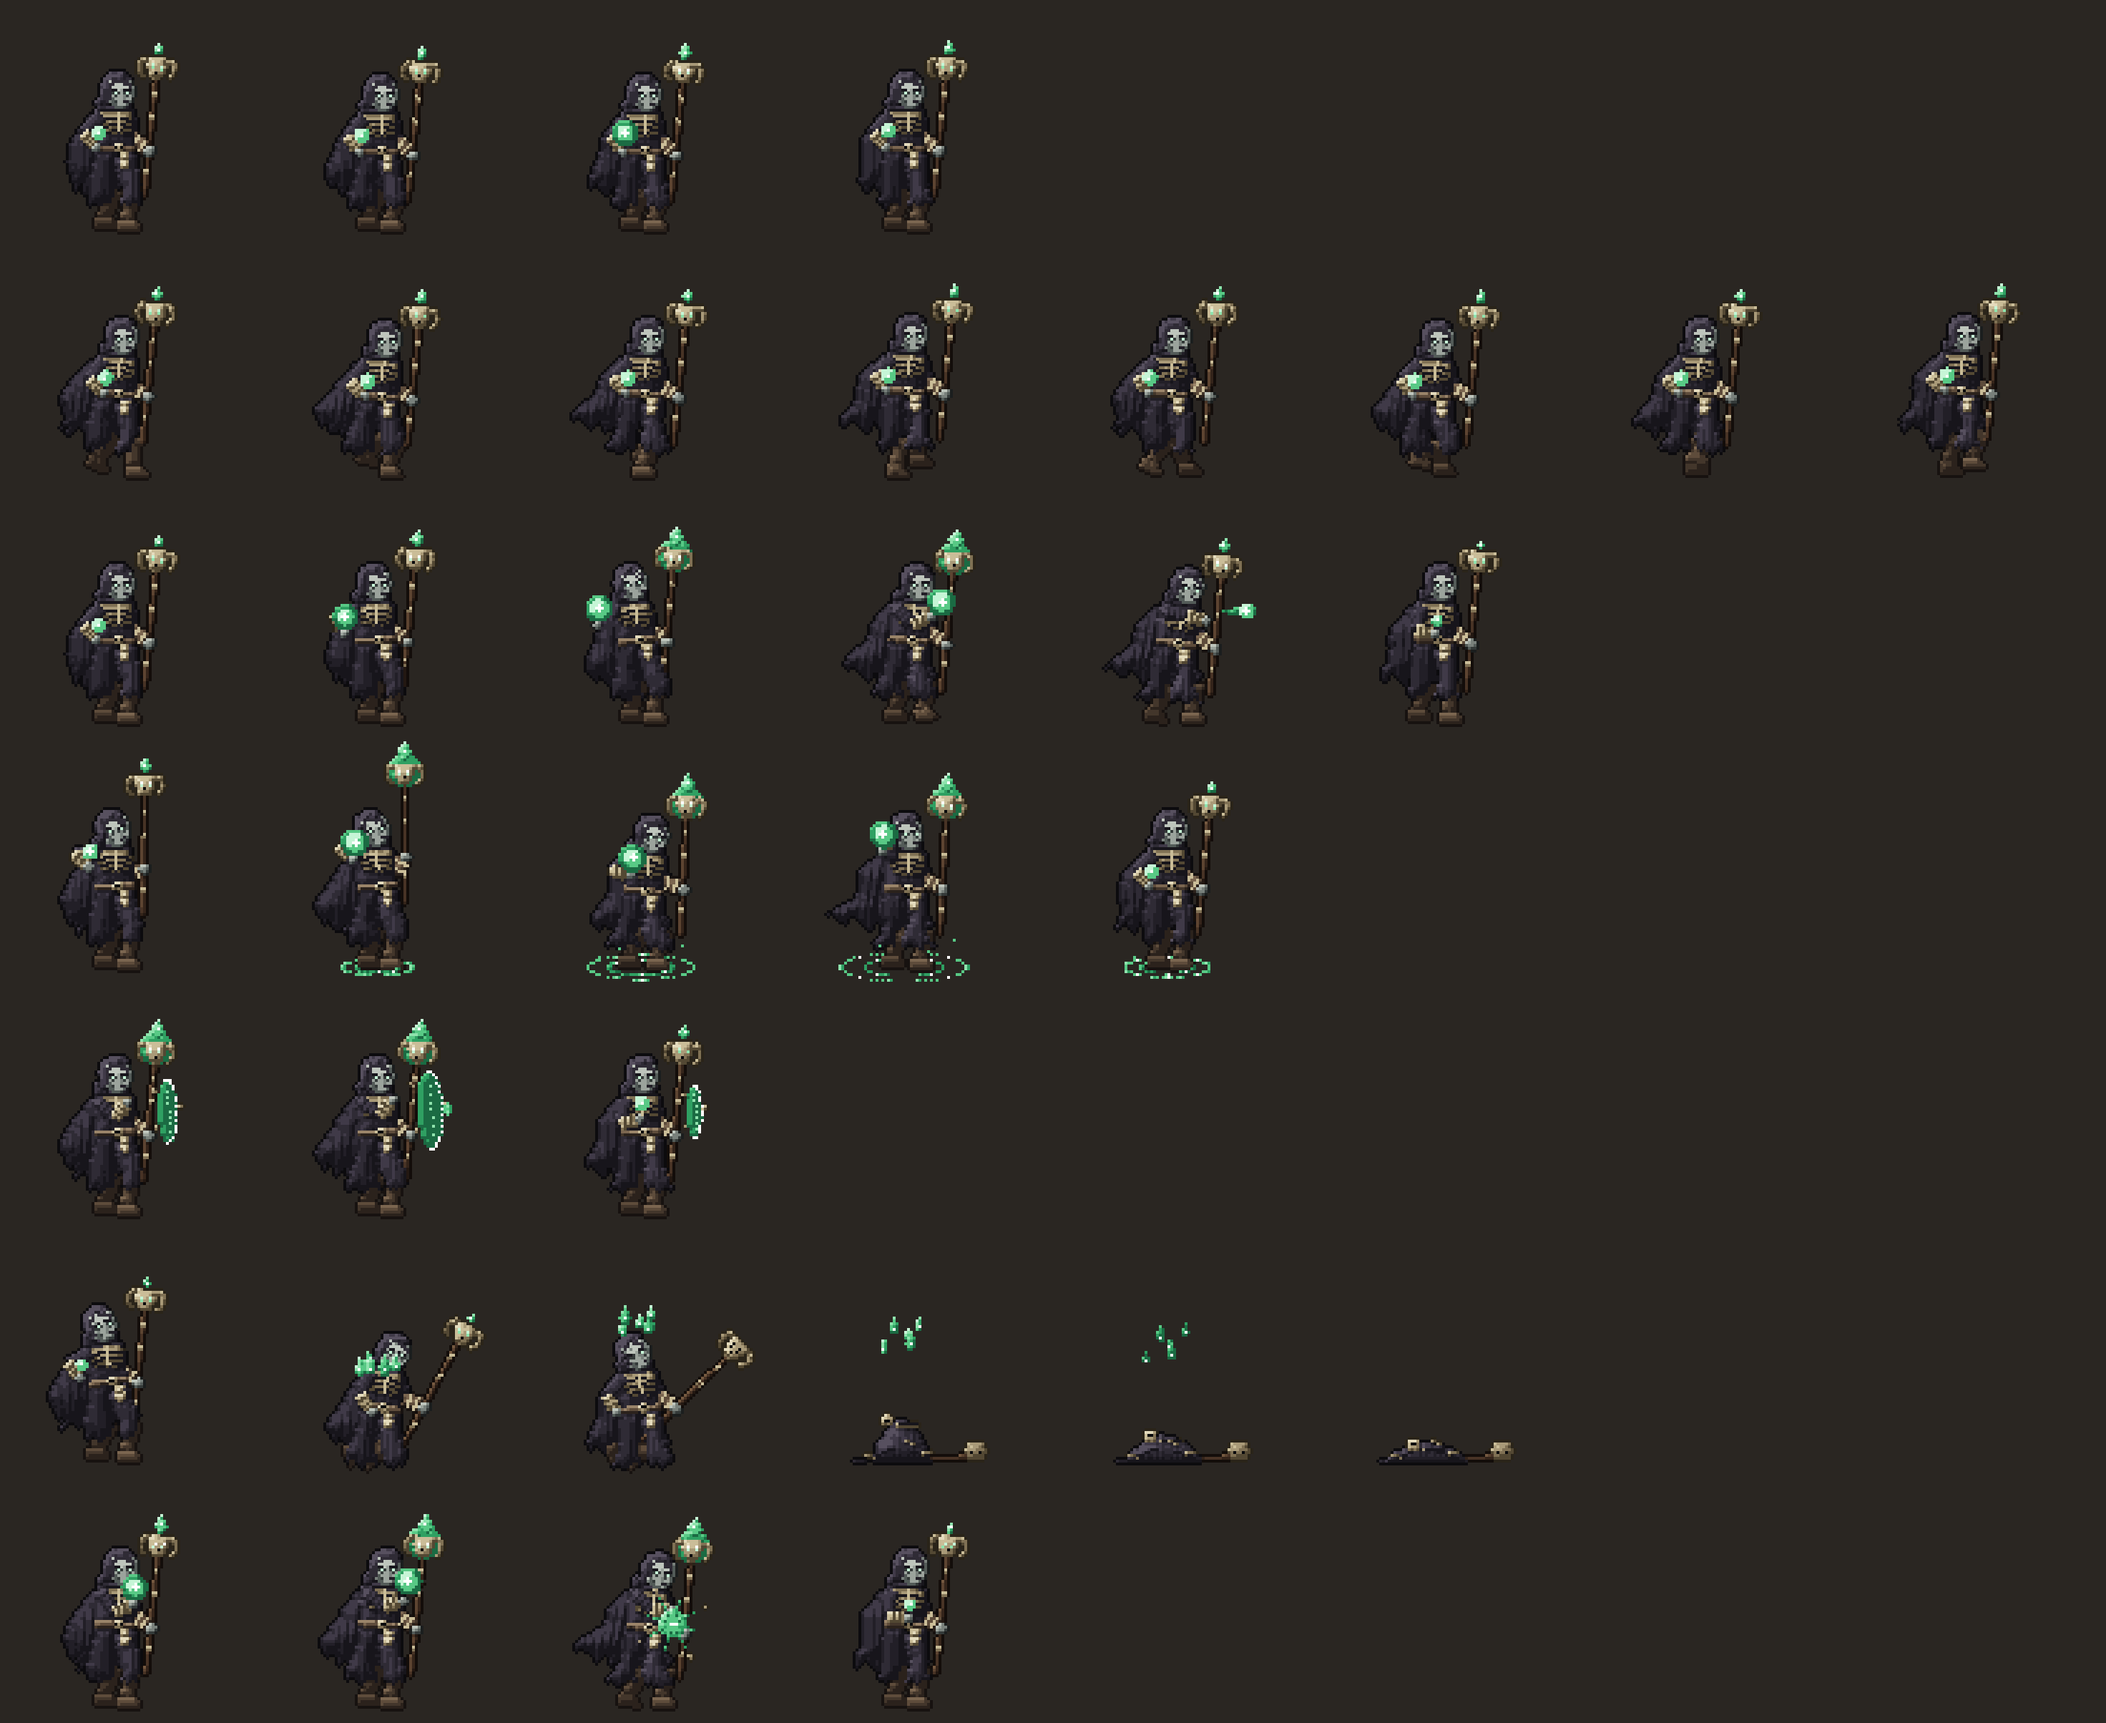
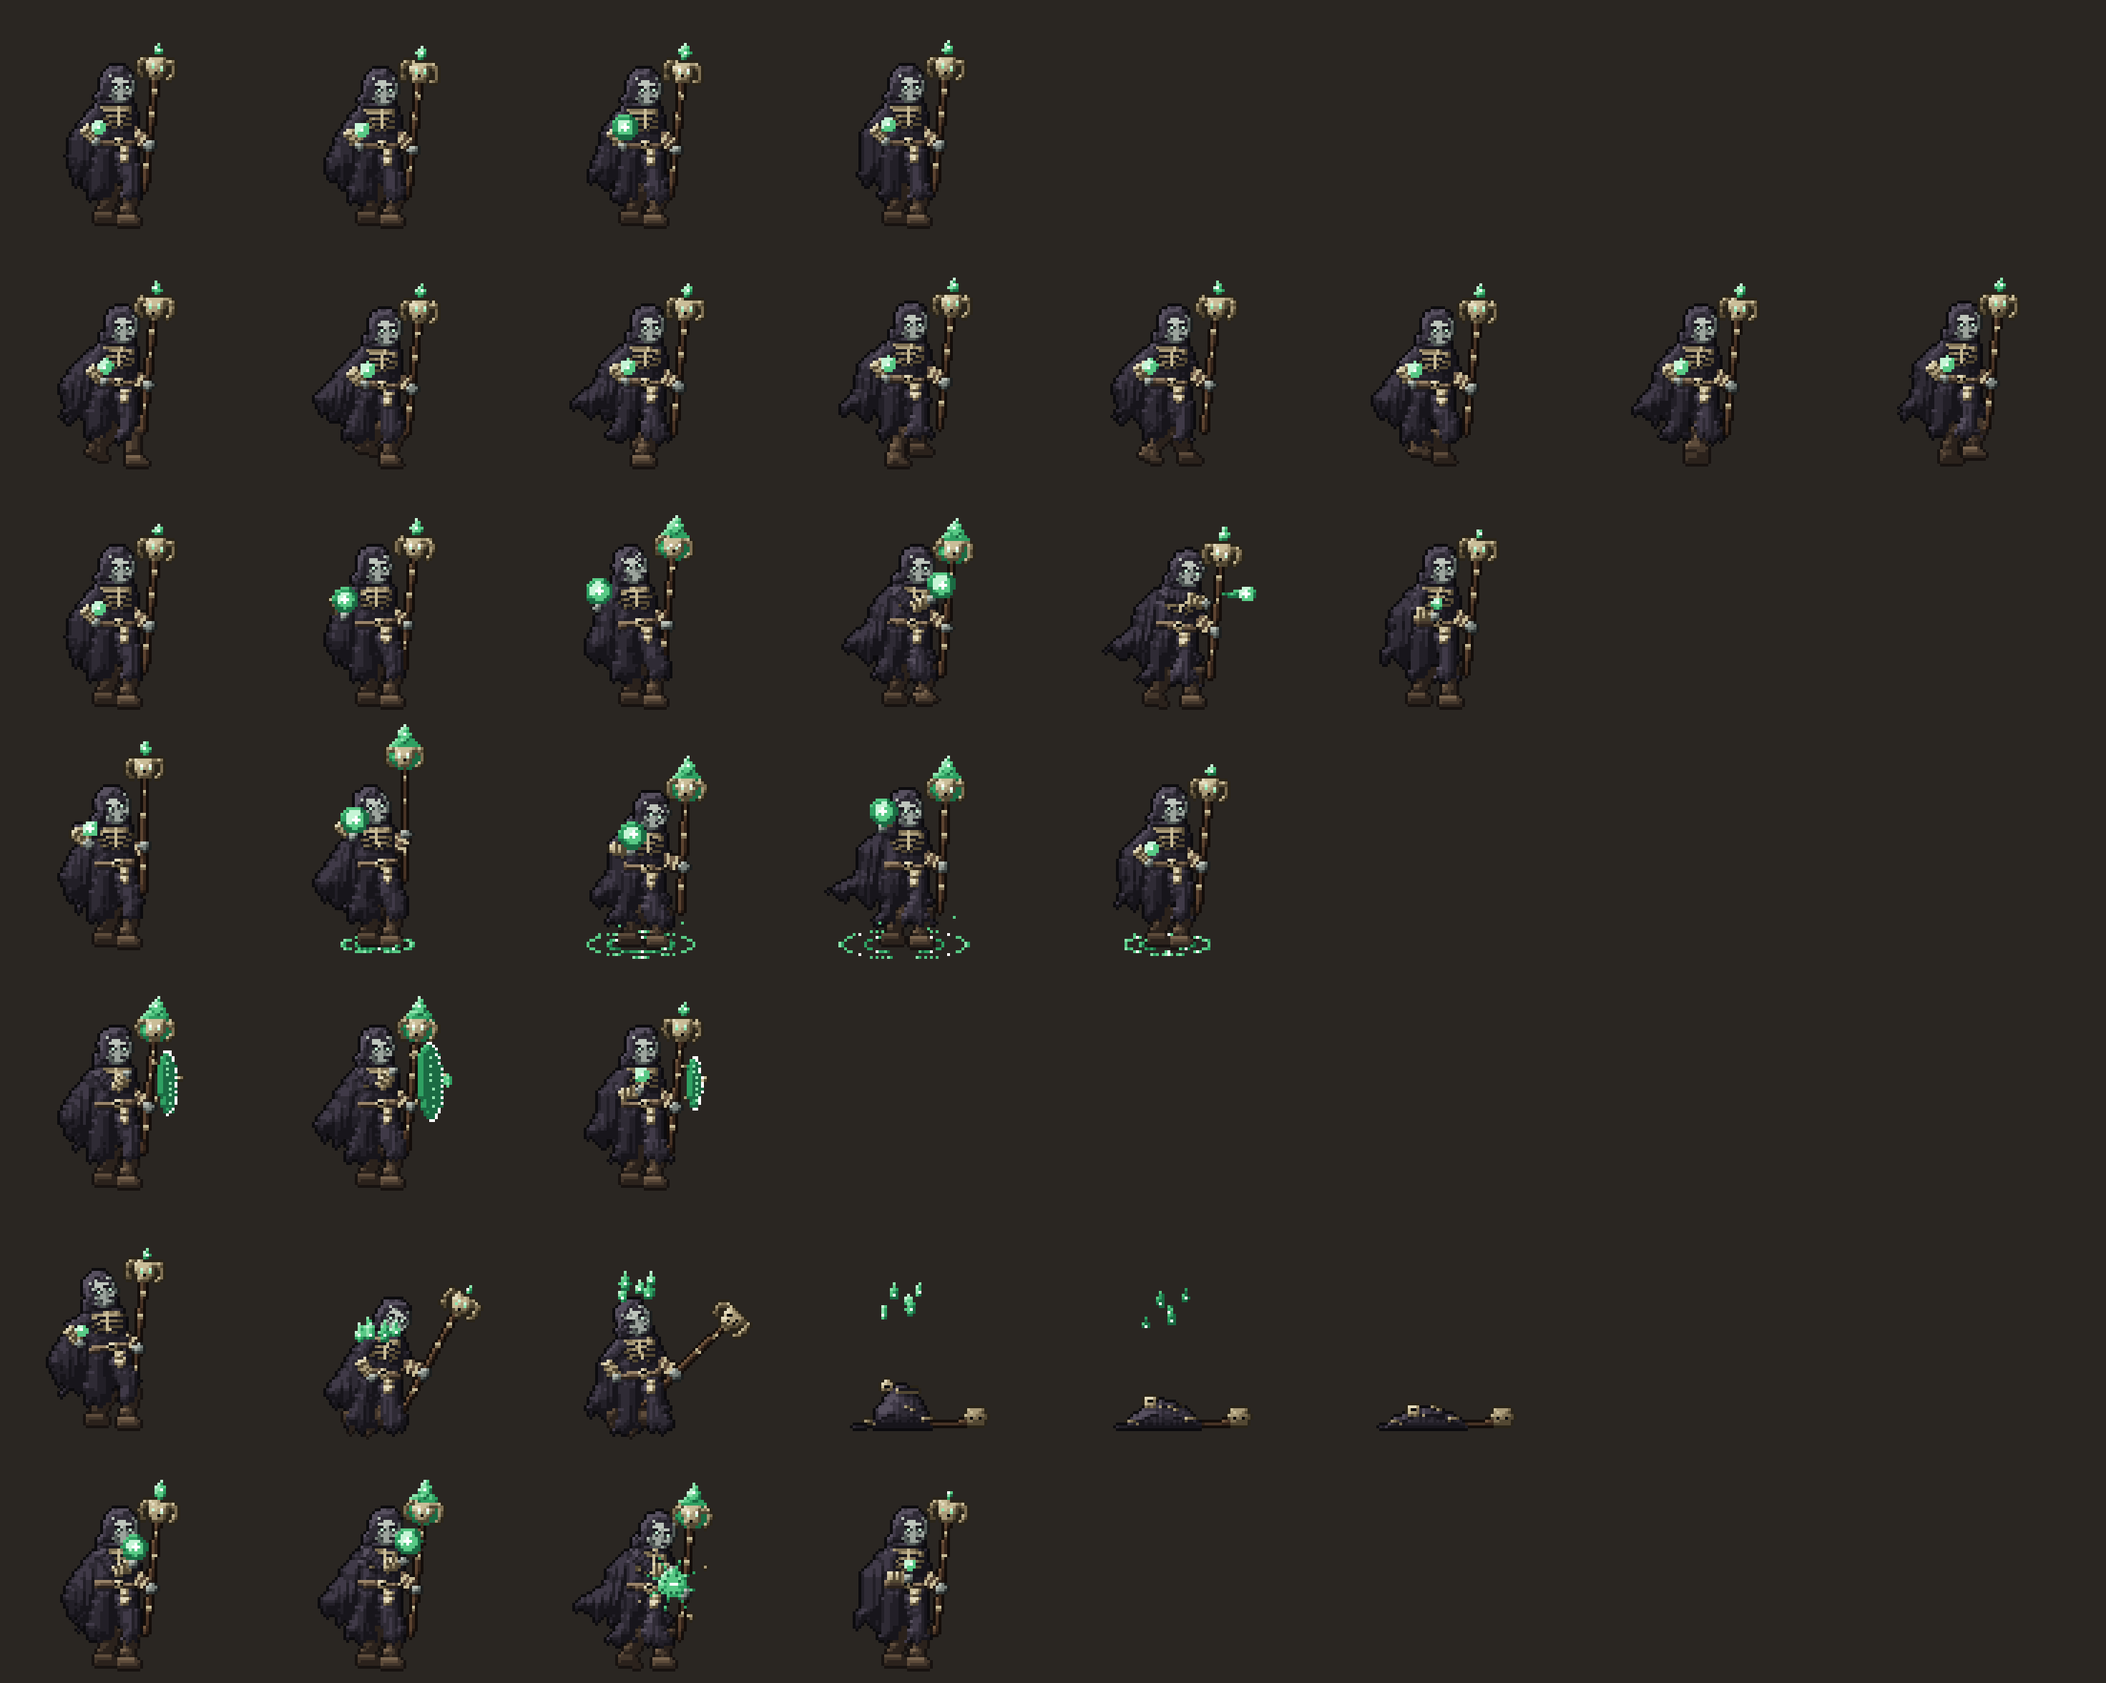
Art: the Necromancer's staff a little shorter, so he stands within his class card like the others (#269)

diff --git a/tools/art/sprites/necromancer.ts b/tools/art/sprites/necromancer.ts
@@ -157,9 +157,9 @@ function necromancer(p: NPose): Figure {
   // wisp over it; `fx` swells the light as he charges a spell
   const st = new Bone(fist[0], fist[1], p.wpn);
   const rings: D[] = [];
-  for (const y of [-20, -12, 7]) rings.push([-0.5, y, 'bone', 4], [0.5, y, 'bone', 4], [-0.5, y + 1, 'bone', 2], [0.5, y + 1, 'bone', 2]);
-  f.part(st, [[-0.9, 17], [0.9, 17], [0.9, -25], [-0.9, -25]], 'bark', za - 0.1, { details: rings });
-  const top = st.child(0, -29);
+  for (const y of [-19, -11, 7]) rings.push([-0.5, y, 'bone', 4], [0.5, y, 'bone', 4], [-0.5, y + 1, 'bone', 2], [0.5, y + 1, 'bone', 2]);
+  f.part(st, [[-0.9, 17], [0.9, 17], [0.9, -23], [-0.9, -23]], 'bark', za - 0.1, { details: rings });
+  const top = st.child(0, -27); // short enough that his idle, wisp and all, stands within the class card's portrait (#156)
   for (const s of [-1, 1]) f.part(top, [[s * 2.6, -3], [s * 5, -3.6], [s * 6.6, -2], [s * 7, 0.6], [s * 6.2, 3], [s * 4.6, 4.2], [s * 3.6, 3.2], [s * 5, 2.2], [s * 5.4, 0.4], [s * 4.6, -1.2], [s * 3, -1]], 'bone', za - 0.07, { dim: s < 0 ? 2 : 1, details: [[s * 5, -2.6, 'bone', 4], [s * 6.2, -0.8, 'bone', 2], [s * 6, 1.6, 'bone', 2]] }); // ram's horns curling down round the skull
   const eye = p.dead ? 0 : p.fx > 0.5 ? 6 : 5;
   f.part(top, [[-3.2, -3.4], [3.2, -3.4], [3.8, 0], [2.6, 2.6], [1.6, 4.4], [-1.6, 4.4], [-2.6, 2.6], [-3.8, 0]], 'bone', za - 0.06, {
